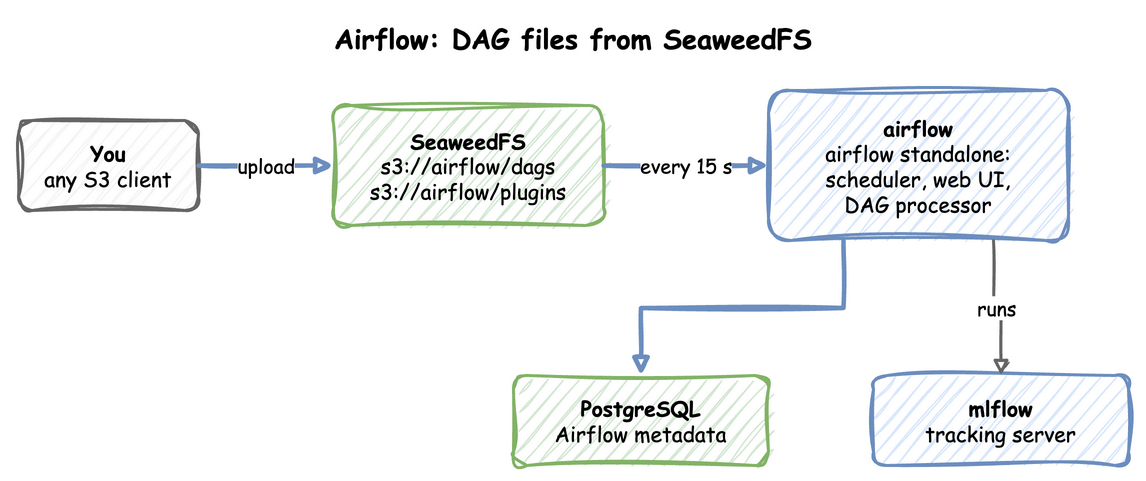
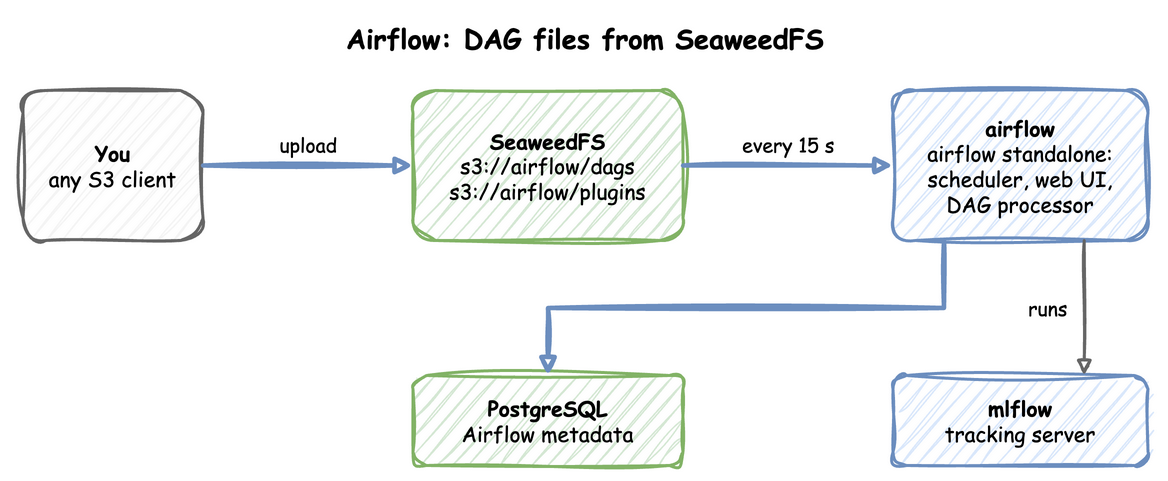
Redraw the docs diagrams; release notes end with a Full Changelog link
Tag a release only once the main pipeline for its commit is green.

Changed region(s): [[0.0, 0.1559, 1.0, 0.9979], [0.2749, 0.0624, 0.733, 0.1247]]

diff --git a/scripts/release_notes.py b/scripts/release_notes.py
@@ -7,19 +7,23 @@ The GitHub release copies its section, so the two never differ:
     gh release create v1.1.0 --title v1.1.0 --notes-file /tmp/notes.md
 
 The section's own heading is left out, because the release has its title. Links to other
-docs pages are relative in the Changelog, so they become links to the latest docs.
+docs pages are relative in the Changelog, so they become links to the latest docs. The
+notes end with a Full Changelog link comparing the release with the tag before it.
 
 Usage: python scripts/release_notes.py <version>
 """
 
 import re
+import subprocess
 import sys
 from pathlib import Path
 
 CHANGELOG = Path(__file__).resolve().parents[1] / "docs" / "about" / "changelog.md"
 DOCS_URL = "https://jaehyeon.me/odctl/latest/"
+REPO_URL = "https://github.com/jaehyeon-kim/odctl"
 
 _HEADING = re.compile(r"^## Version (\S+)\s*$", re.MULTILINE)
+_TAG = re.compile(r"^v(\d+)\.(\d+)\.(\d+)$")
 _RELATIVE_LINK = re.compile(r"\]\((?!https?://|#|mailto:)([^)\s#]+)\.md(#[^)]*)?\)")
 
 
@@ -59,12 +63,56 @@ def section(version: str, text: str) -> str:
     raise ValueError(f"No '## Version {version}' section in {CHANGELOG}")
 
 
+def previous_tag(version: str, tags: list[str]) -> str | None:
+    """Return the highest `vX.Y.Z` tag below the version, or None for the first release.
+
+    Args:
+        version (str): The version being released, such as `1.1.0`.
+        tags (list[str]): The repository's tags; others than `vX.Y.Z` are ignored.
+
+    Returns:
+        str | None: The previous release tag, such as `v1.0.2`.
+    """
+    current = tuple(int(part) for part in version.split("."))
+    older = []
+    for tag in tags:
+        match = _TAG.match(tag)
+        if match and tuple(map(int, match.groups())) < current:
+            older.append((tuple(map(int, match.groups())), tag))
+    return max(older)[1] if older else None
+
+
+def notes(version: str, text: str, tags: list[str]) -> str:
+    """Return the release notes: the Changelog section, then the Full Changelog link.
+
+    Args:
+        version (str): The version, such as `1.1.0`.
+        text (str): The Changelog's Markdown.
+        tags (list[str]): The repository's tags, to find the previous release.
+
+    Returns:
+        str: The text of the GitHub release.
+    """
+    body = section(version, text)
+    previous = previous_tag(version, tags)
+    if previous:
+        body += f"\n**Full Changelog**: {REPO_URL}/compare/{previous}...v{version}\n"
+    return body
+
+
 def main() -> None:
-    """Print the section for the version given on the command line."""
+    """Print the release notes for the version given on the command line."""
     if len(sys.argv) != 2:
         sys.exit(__doc__)
+    tags = subprocess.run(
+        ["git", "tag", "--list", "v*"],
+        cwd=CHANGELOG.parents[2],
+        capture_output=True,
+        text=True,
+        check=True,
+    ).stdout.split()
     try:
-        print(section(sys.argv[1], CHANGELOG.read_text(encoding="utf-8")), end="")
+        print(notes(sys.argv[1], CHANGELOG.read_text(encoding="utf-8"), tags), end="")
     except ValueError as error:
         sys.exit(str(error))
 

diff --git a/tests/test_release_notes.py b/tests/test_release_notes.py
@@ -61,3 +61,16 @@ def test_the_published_changelog_has_the_current_version():
         if line.startswith("version = ")
     )
     assert release_notes.section(version, release_notes.CHANGELOG.read_text())
+
+
+def test_notes_end_with_the_full_changelog_link():
+    tags = ["v1.0.1", "v1.0.2", "v1.1.0", "v0.10.0", "not-a-release"]
+    body = release_notes.notes("1.1.0", CHANGELOG, tags)
+    assert body.endswith(
+        "\n**Full Changelog**: https://github.com/jaehyeon-kim/odctl/compare/v1.0.2...v1.1.0\n"
+    )
+
+
+def test_the_previous_tag_compares_versions_as_numbers():
+    assert release_notes.previous_tag("1.0.0", ["v0.9.0", "v0.10.0"]) == "v0.10.0"
+    assert release_notes.previous_tag("0.1.0", ["v0.1.0"]) is None

diff --git a/CLAUDE.md b/CLAUDE.md
@@ -46,7 +46,7 @@ uv run python scripts/diagrams.py [name ...]      # export diagrams; needs draw.
 ## Release
 
 1. Bump `version` in `pyproject.toml`, run `uv lock`, and add the release to `docs/about/changelog.md`, with an Upgrading line for any change to ports, profiles, `.env` keys, volumes or workspace files. When it reaches `main`, the docs deploy as that version, aliased `latest`.
-2. Push tag `vX.Y.Z` on that commit on `main`. The tag pipeline builds and pushes the `X.Y.Z` images, then runs e2e for every profile group (about an hour).
+2. Once the `main` pipeline for that commit is green, push tag `vX.Y.Z` on it. A tag on a commit whose checks fail builds no images and cannot be released until it is moved. The tag pipeline builds and pushes the `X.Y.Z` images, then runs e2e for every profile group (about an hour).
 3. Publish the GitHub release with that version's Changelog section as its text, so the two never differ: `python scripts/release_notes.py X.Y.Z > /tmp/notes.md`, then `gh release create vX.Y.Z --title vX.Y.Z --notes-file /tmp/notes.md`. `publish.yml` waits for a green tag pipeline and checks that every `X.Y.Z` image is in ghcr, then uploads to PyPI.
 
 ## Git
